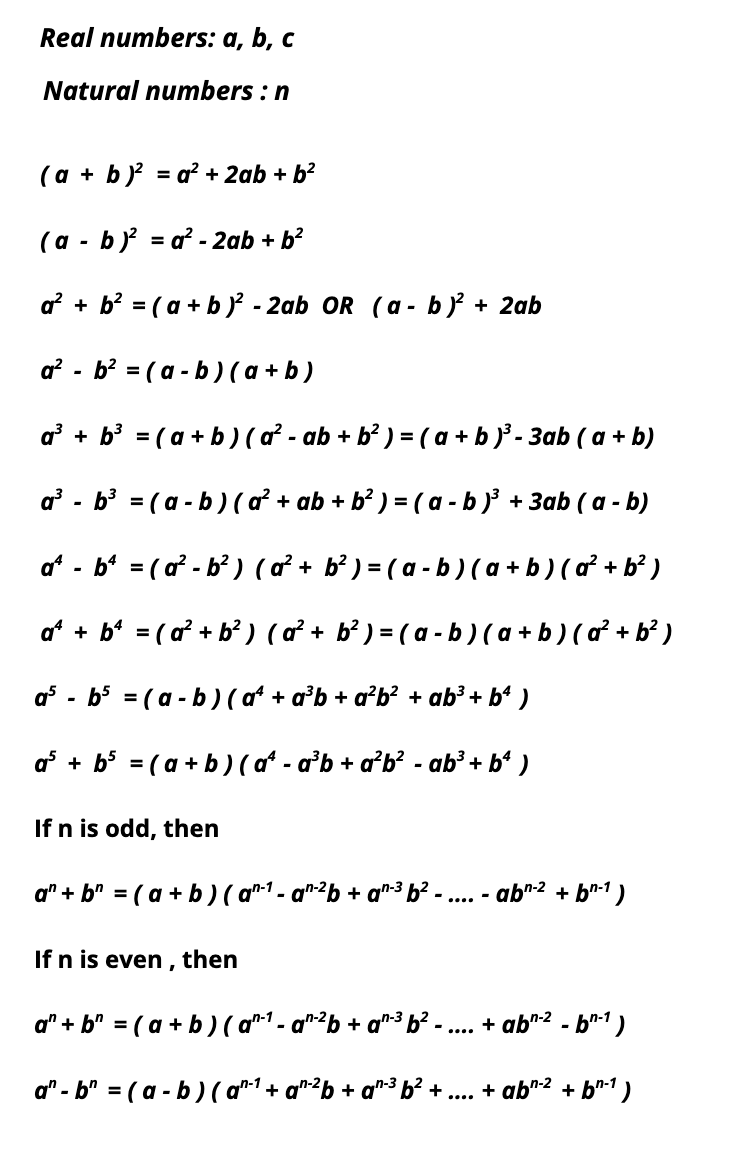
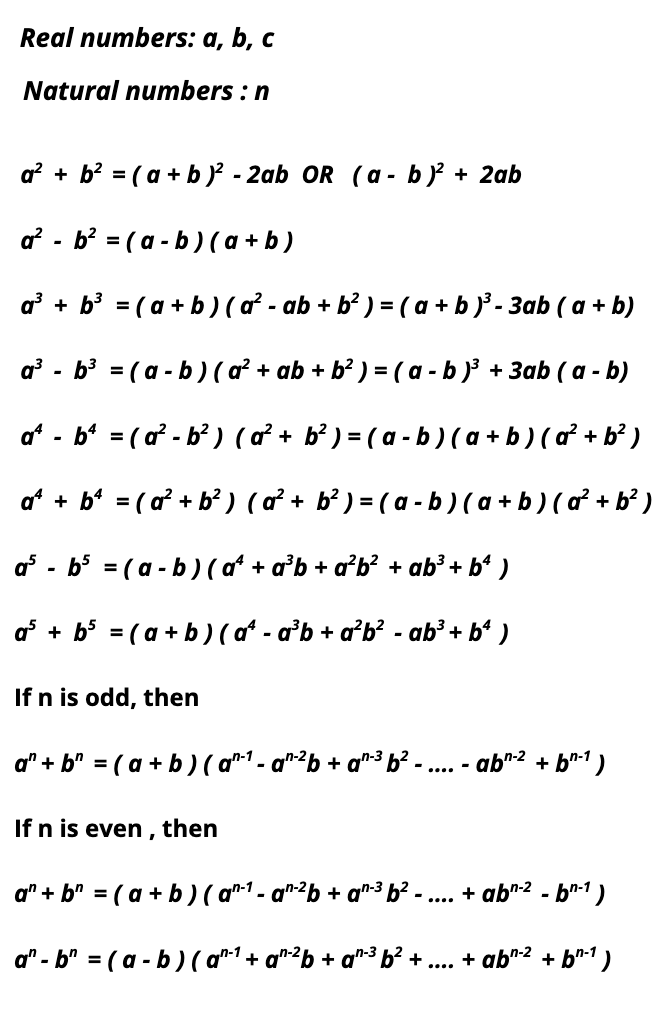
Formula screen - factoring and product formula  is added with images init

diff --git a/lib/screens/Formulascreen.dart b/lib/screens/Formulascreen.dart
@@ -28,29 +28,73 @@ class _FormulascreenState extends State<Formulascreen> {
 
   @override
   Widget build(BuildContext context) {
-    return Scaffold(
-      backgroundColor: kmainbackgroundcolor,
-      appBar: AppBar(
-        leading: IconButton(
-          icon: Icon(
-              Icons.arrow_back_ios_new_rounded, color: kmainbackgroundcolor),
-          onPressed: () => Navigator.of(context).pop(),
-        ),
-        backgroundColor: kappbarcolor,
-        elevation: 10,
-        title: Text(widget.title,
-            style: GoogleFonts.poppins(
-                letterSpacing: 0.8,
-                fontSize: 22,
-                color: kmainbackgroundcolor,
-                fontWeight: FontWeight.w900)),
-      ),
-      body: Container(
-          child: PhotoView(
-            backgroundDecoration: BoxDecoration(color: Colors.white),
-            imageProvider: AssetImage("assets/algebra/factoring_formula.png"),
+
+    if(widget.listIndex == 1) {
+      return Scaffold(
+          backgroundColor: Colors.white,
+          appBar: AppBar(
+            leading: IconButton(
+              icon: Icon(
+                  Icons.arrow_back_ios_new_rounded,
+                  color: kmainbackgroundcolor),
+              onPressed: () => Navigator.of(context).pop(),
+            ),
+            backgroundColor: kappbarcolor,
+            elevation: 10,
+            title: Text(widget.title,
+                style: GoogleFonts.nunito(
+                    letterSpacing: 0.8,
+                    fontSize: 24,
+                    color: kmainbackgroundcolor,
+                    fontWeight: FontWeight.w900)),
+          ),
+          body: Container(
+              width: double.infinity,
+              height: 500,
+              child: PhotoView(
+                minScale: 0.4,
+                backgroundDecoration: BoxDecoration(color: Colors.white),
+                imageProvider: AssetImage(
+                    "assets/algebra/factoring_formula.png"),
+              )
           )
-      )
-    );
+      );
+    }
+    else if (widget.listIndex == 2)
+      {
+        return Scaffold(
+            backgroundColor: Colors.white,
+            appBar: AppBar(
+              leading: IconButton(
+                icon: Icon(
+                    Icons.arrow_back_ios_new_rounded,
+                    color: kmainbackgroundcolor),
+                onPressed: () => Navigator.of(context).pop(),
+              ),
+              backgroundColor: kappbarcolor,
+              elevation: 10,
+              title: Text(widget.title,
+                  style: GoogleFonts.nunito(
+                      letterSpacing: 0.8,
+                      fontSize: 24,
+                      color: kmainbackgroundcolor,
+                      fontWeight: FontWeight.w900)),
+            ),
+            body: Container(
+              width: double.infinity,
+              height: 500,
+              child: PhotoView(
+                minScale: 0.2,
+                backgroundDecoration: BoxDecoration(color: Colors.white),
+                imageProvider: AssetImage(
+                    "assets/algebra/product_formula.png"),
+              ),
+            )
+        );
+
+      }
+    else {
+      return Container();
+    }
   }
 }

diff --git a/lib/screens/listscreen.dart b/lib/screens/listscreen.dart
@@ -504,9 +504,9 @@ class _ListscreenState extends State<Listscreen> {
           backgroundColor: kappbarcolor,
           elevation: 10,
           title: Text(widget.title,
-              style: GoogleFonts.poppins(
+              style: GoogleFonts.nunito(
                   letterSpacing: 0.8,
-                  fontSize: 22,
+                  fontSize: 24,
                   color: kmainbackgroundcolor,
                   fontWeight: FontWeight.w900)),
         ),
@@ -550,8 +550,8 @@ class _ListscreenState extends State<Listscreen> {
                           child: Align(
                             alignment: Alignment.centerLeft,
                             child: Text(items_1[index].title,
-                                style: GoogleFonts.poppins(textStyle: TextStyle(
-                                  fontSize: 20,
+                                style: GoogleFonts.nunito(textStyle: TextStyle(
+                                  fontSize: 22,
                                   color: ktextcolor,
                                   letterSpacing: 0.8,
                                   fontWeight: FontWeight.w800,))

diff --git a/lib/screens/homescreen.dart b/lib/screens/homescreen.dart
@@ -94,9 +94,9 @@ class _HomeScreenState extends State<HomeScreen> {
         title: Align(
           alignment: Alignment.center,
           child: Text("Math Formula",
-              style: GoogleFonts.poppins(
+              style: GoogleFonts.nunito(
                   letterSpacing: 0.8,
-                  fontSize: 22,
+                  fontSize: 24,
                   color: kmainbackgroundcolor,
                   fontWeight: FontWeight.w900)),
         ),
@@ -128,8 +128,8 @@ class _HomeScreenState extends State<HomeScreen> {
                         child: Align(
                           alignment: Alignment.centerLeft,
                           child: Text(items[index].title,
-                            style: GoogleFonts.poppins(textStyle: TextStyle(
-                            fontSize: 20,
+                            style: GoogleFonts.nunito(textStyle: TextStyle(
+                            fontSize: 22,
                             color: ktextcolor,
                             letterSpacing: 0.8,
                             fontWeight: FontWeight.w800,))
